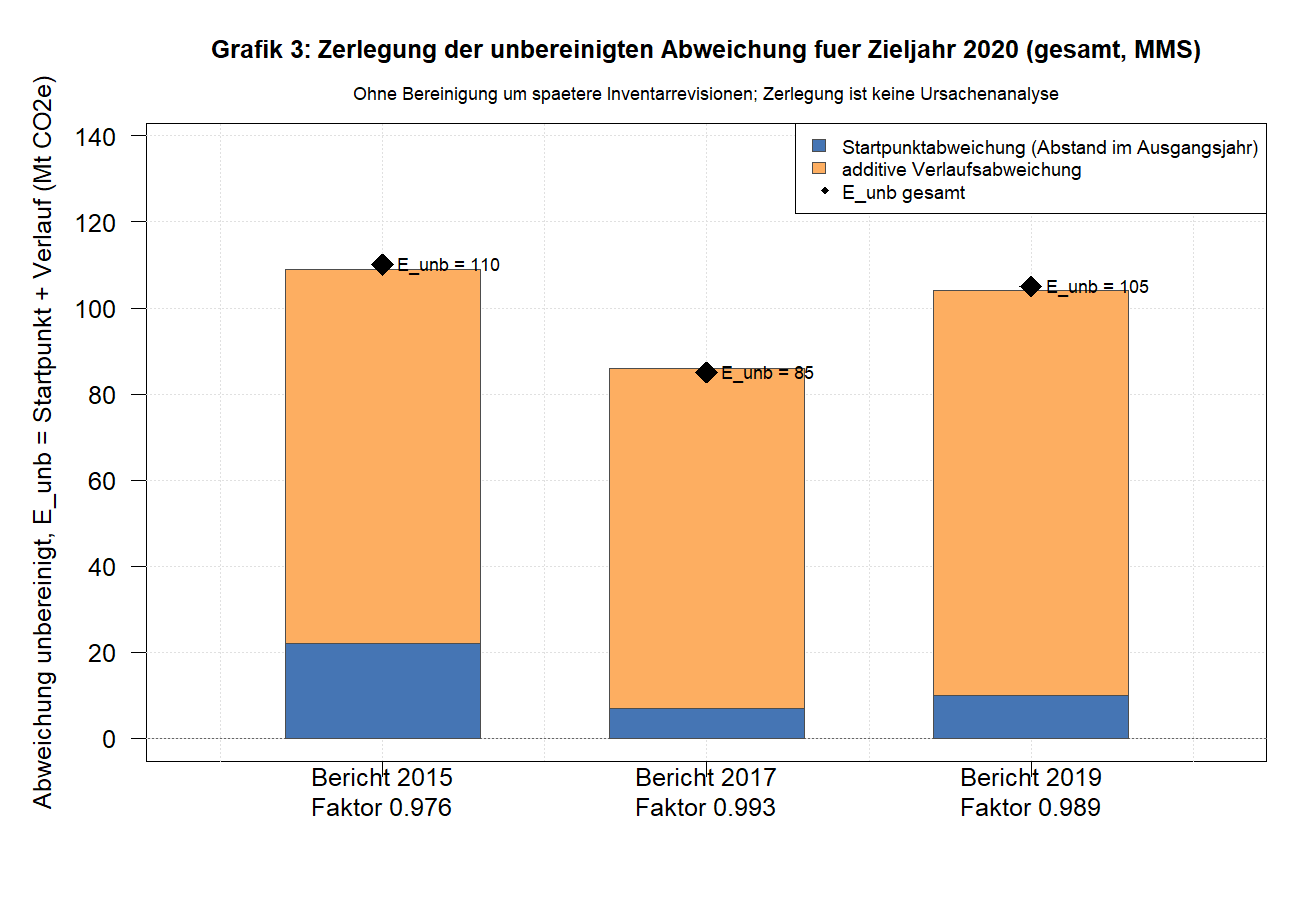
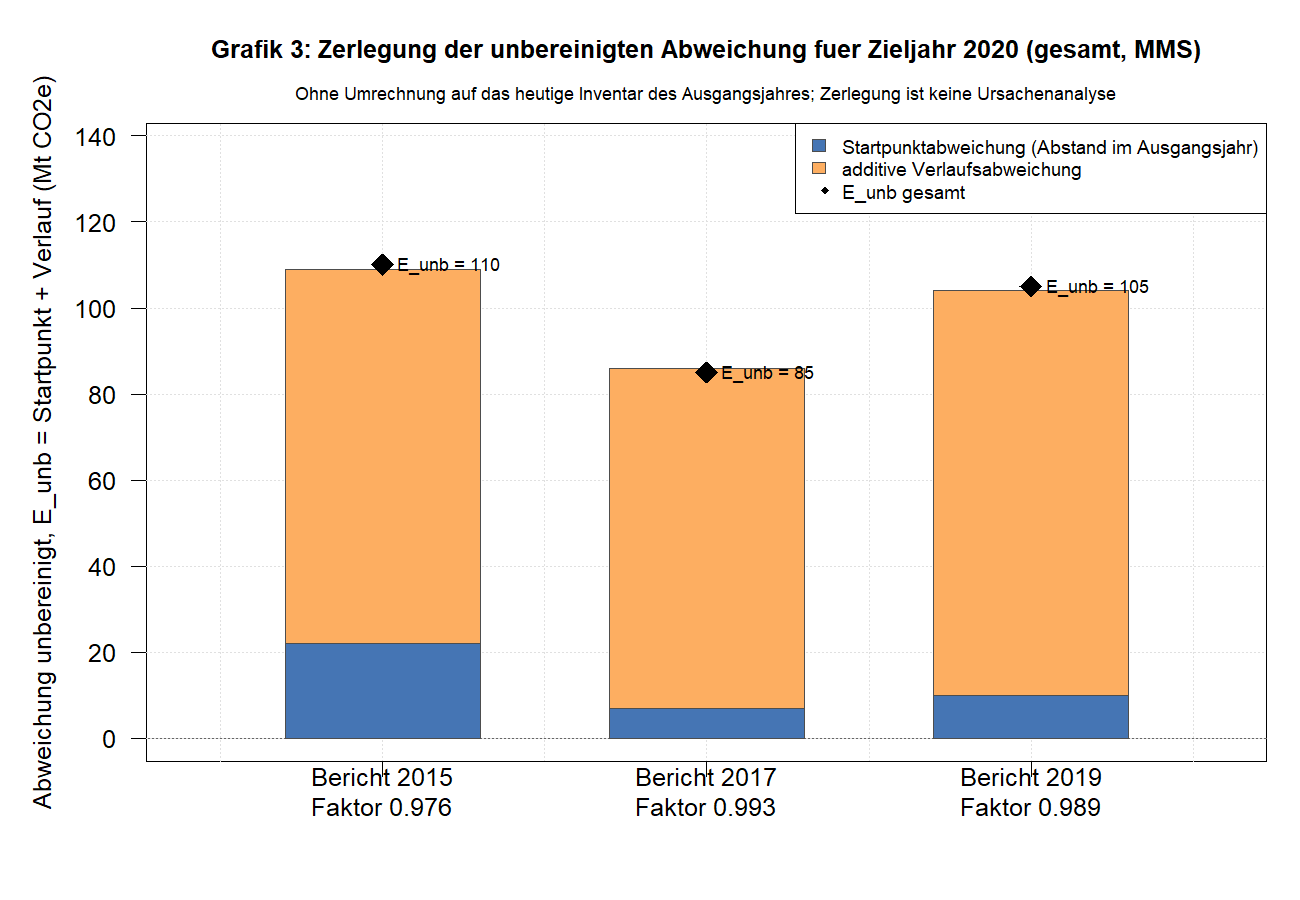
Prognose-Check: Faktencheck-Nachpruefung 2 (Datei, bestaetigt, 0 kritisch/hoch/mittel); Artikel v0.3 mit N7-N10, Grafik-3-Untertitel neutral

Changed region(s): [[0.2154, 0.0933, 0.8615, 0.1244]]

diff --git a/Reports/2026-11-12-prognose-check/faktencheck_nachpruefung2.md b/Reports/2026-11-12-prognose-check/faktencheck_nachpruefung2.md
@@ -1,0 +1,103 @@
+# Faktencheck Nachpruefung 2: Prognose-Check #1, Artikelentwurf v0.3 (Substack)
+
+Gepruefter Text: `Reports/2026-11-12-prognose-check/kanal-entwuerfe/substack.md` (v0.3, 12.11.2026). Der Artikel wurde nicht veraendert.
+Gegenstand: nur die seit `faktencheck_nachpruefung1.md` geaenderten Stellen (N1 bis N5), Quellenliste [1], Kopfvermerk, Grafik 3 (H27) und Analysebericht-E1-Tabelle (H26). Unveraenderte Stellen wurden nicht neu geprueft.
+Pruefer: faktenpruefer-Subagent (unabhaengig), Stand 12.11.2026.
+Geprueft gegen (unter `Analysen/2026-10-prognose-check-projektionsberichte/`): `output/e3_einzelwerte.csv`, `output/e3_kennzahlen.csv`, `output/e5_zerlegung.csv`, `output/grafik3_E5_zerlegung_2020.png` (angesehen), `04_grafik3_beschriftung.R`, `Analysebericht_...md` (Abschnitte 3, 4, 5, 7), `Abweichungsprotokoll_...md` (H19, H26, H27, H5, H20, H21), `SAP_...md` (8.1, 8.2), `run_log.txt` (Dateitabelle, Spalte url, Zugriff 22.10.2026), `Freigabe_Ergebnisse_Daniel_Saure_2026-11-11.md`, `Validierungsbericht_...md`, `faktencheck.md`. Zusaetzlich wurden fuenf der sechs URLs von [1] online abgerufen.
+
+## Gesamturteil
+
+**Bestaetigt mit Hinweisen: 0 kritisch, 0 hoch, 0 mittel, 4 gering (neu).** Alle in v0.3 geaenderten Saetze (N1 bis N5) sind jetzt von den Quellen gedeckt; die Ursachenzuschreibung beim Ausgangsjahrwert (frueher H2/N1) ist entfernt, D ist korrekt als Differenz absoluter Abweichungen definiert, "deshalb"/"denn" bei der Modellqualitaet sind durch die Begruendung des Analyseberichts ersetzt. Die sechs URLs in [1] stimmen buchstabengenau mit der Spalte url der Rohdatei-Liste in `run_log.txt` ueberein. Grafik 3 und die E1-Tabelle des Analyseberichts entsprechen dem Befund. Es verbleiben nur Kleinigkeiten (N7 bis N10, siehe unten). Bekannt offen und nicht als Fehler gewertet: GitHub-Link [3], G1/G2/G4/G5, H4. Dieser Faktencheck ist keine Freigabe; ein Freigabevermerk wurde nicht geschrieben.
+
+## Status der Befunde aus Nachpruefung 1
+
+| Befund | Status | Begruendung (Fundstelle v0.3 / Quelle) |
+|---|---|---|
+| N1 (Ursachenzuschreibung Ausgangsjahrwert) | behoben (Rest gering, siehe N8) | v0.3, "Was wir verglichen haben", Absatz 2: "weicht ... ab, beim Bericht von 2015 etwa fuer 2012. Das Umweltbundesamt rechnet die Reihe jedes Jahr neu. Ob das die Abweichung erklaert, haben wir nicht untersucht." "deshalb" ist weg, die Ursache wird ausdruecklich offen gelassen. Entspricht Analysebericht Abschnitt 3 ("Die Ursache ist nicht belegt"), Protokoll H19 und der Limitation (S2 nicht durchgefuehrt). Ausgangsjahr 2012 fuer PB2015 und Faktor 0,976 bis 0,995 gedeckt (Analysebericht Abschnitt 2/3). |
+| N2 (Definition D) | behoben | v0.3: "absolute Abweichung (ohne Vorzeichen) des MWMS minus absolute Abweichung des MMS ... Negativ heisst: Das MWMS lag naeher am tatsaechlichen Wert." `e3_einzelwerte.csv`: D = ARE_MWMS minus ARE_MMS; Zeile 2015/2015: ARE 1,4 (MMS), 1,5 (MWMS), D = +0,1 (dRE = -0,1, nicht massgeblich); alle anderen D negativ. Vorzeichenregel stimmt (kleinerer Betrag = naeher). Siehe Tabelle unten. |
+| N3 (deshalb/denn bei Modellqualitaet) | behoben | Bullet 4: "Eine Aussage ueber die Qualitaet der Modelle ist das nicht, denn diese Rechnungen variieren nur einzelne Annahmen." Absatz Sensitivitaetsband: "Eine Pandemie war in diesen Rechnungen nicht vorgesehen. Dass der tatsaechliche Wert unter dem Band liegt, ist keine Aussage ueber die Qualitaet der Modelle." Gedeckt durch Analysebericht Abschnitt 4 ("variieren nur Wachstum, Bevoelkerung, Preise und Stromexport und enthalten kein Pandemie- oder Krisenszenario; ... keine Aussage ueber die Modellierungsqualitaet (SAP 8.1)") und Freigabeauflage (letzter Punkt). "deshalb" ist gestrichen. |
+| N4 ("Wegen der ersten Rechnung ...") | behoben | v0.3, Absatz zu den nicht durchgefuehrten Rechnungen: "Wegen der ersten Rechnung wissen wir nicht, wie stark die spaeteren Korrekturen am Inventar die Ergebnisse verschieben." Bezug eindeutig auf S2. Analysebericht Abschnitt 5 (S2): "Folge: Die Wirkung der Revision der Ist-Werte auf E1/E2 ist unbekannt." Beschreibung S2 (nicht beschafft, "erste" nicht eindeutig) = Protokoll H5/H21; S6 (kein Ausgangswert in den Dateien fuer 2024; 2025 ohne Zieljahr im Fenster) = Analysebericht Abschnitt 5 / Protokoll H20. |
+| N5 (Entwurfskopf) | behoben (Rest gering, N9) | Kopf nennt jetzt "ENTWURF v0.3 (12.11.2026)", nennt Faktencheck, Nachpruefung 1 und v0.3-Aenderungen. Kopf nennt weiter Namen und Chat-Zitat (G6): bekannt, vor Veroeffentlichung zu entfernen. |
+| N6 (Analysebericht 811 vs. 810) | behoben | Analysebericht Abschnitt 4, E1-Tabelle: PB2017 P* = 810, A = 731, E* = 79, RE* = 10,9. Die uebrigen "811" im Bericht (Bandminimum 816,9 x 0,993 bereinigt) sind richtig (816,9 x 0,993 = 811,2). Protokoll H26 beschreibt das korrekt. |
+
+## Pruefung der geaenderten Saetze
+
+| Behauptung (Artikel v0.3) | Quelle | Ergebnis | Hinweis |
+|---|---|---|---|
+| Ausgangsjahrwert des Berichts weicht vom heutigen Inventarwert desselben Jahres ab, beim Bericht 2015 fuer 2012 | `umskalierungsfaktoren.csv` laut Analysebericht Abschnitt 3 (0,976); J_b 2015 = 2012 (Abschnitt 2, Amendment 1) | bestaetigt | Faktor 0,976 bedeutet, dass der Berichtswert um 2,4 % ueber dem heutigen Inventarwert liegt. |
+| "Das Umweltbundesamt rechnet die Reihe jedes Jahr neu" | keine Projektquelle (Analysebericht nennt "methodische Neuberechnung im Inventar" nur als ungeprueft Hypothese) | nicht pruefbar | Allgemeinwissen (jaehrliche Neuberechnung im Nationalen Inventarbericht ueblich), im Projekt nicht belegt; Beleg koennte im NIR 2026 (`uba_inventar/30_2026_CC.pdf`) gesucht werden. Gering, siehe N8. |
+| "Ob das die Abweichung erklaert, haben wir nicht untersucht" | Analysebericht Abschnitt 3/5, Protokoll H19/H21 | bestaetigt | Keine Kausalbehauptung mehr. |
+| Faktor zwischen 0,976 und 0,995 (Gesamtemissionen) | Analysebericht Abschnitt 3 | bestaetigt | Unveraendert. |
+| D = absolute Abweichung MWMS minus absolute Abweichung MMS; negativ = MWMS naeher | `e3_einzelwerte.csv` (Spalten ARE_star_MWMS, ARE_star_MMS, D), SAP 2.3 | bestaetigt | |
+| 5 Vergleiche, 4 mit MWMS naeher | `e3_kennzahlen.csv` (n = 5, n_D_neg = 4) | bestaetigt | |
+| Median minus 1,5 Prozentpunkte | `e3_kennzahlen.csv` (-1,4667) | bestaetigt | |
+| Einziges Gegenbeispiel: Bericht 2015 fuer 2015, plus 0,1 Prozentpunkte | `e3_einzelwerte.csv` (D = 0,1) | bestaetigt | |
+| Ohne Bericht 2015: 3 von 3, Median minus 1,5 | Werte -1,5 / -1,4 / -1,7 aus `e3_einzelwerte.csv`: Median -1,5 (ungerundet -1,4667); Analysebericht Abschnitt 4 | bestaetigt | Nachrechnung der Rundung nur aus den CSV-Werten, keine neue Aussage im Artikel. |
+| Ohne 2017: Median minus 1,6; ohne 2023: minus 1,5 | Analysebericht Abschnitt 4 (-1,57 / -1,47) | bestaetigt | Zuordnung in der Reihenfolge korrekt. |
+| MWMS 2015 stammt aus einer Fassung von 2016, "also aus der Zeit nach dem Berichtsjahr" | Protokoll H1, Analysebericht Abschnitt 4 | bestaetigt | |
+| Bullet 4: Ist-Wert 2020 unter der gesamten Spannweite der berichtseigenen Sensitivitaeten; "variieren nur einzelne Annahmen" | Analysebericht Abschnitt 4 (Band-Pruefung), Freigabe Auflage 4 | bestaetigt | Begruendung "denn ..." entspricht dem Analysebericht, nicht wortgleich SAP 8.1 (dort: bedingte Szenarien); beides vereinbar. |
+| "Eine Pandemie war in diesen Rechnungen nicht vorgesehen" | Analysebericht Abschnitt 4 ("kein Pandemie- oder Krisenszenario") | bestaetigt | |
+| Nicht durchgefuehrt: erste Rechnung (erste Inventarversion mit dem Jahr), nicht beschafft, "erste" im Plan nicht eindeutig | Protokoll H5/H21, Analysebericht Abschnitt 5 (S2) | bestaetigt | |
+| Zweite nicht durchgefuehrte Rechnung: UBA-Projektionsdaten 2024 und 2025, fehlender Ausgangswert, Bericht 2025 ohne Zieljahr im untersuchten Zeitraum | Protokoll H20, Analysebericht Abschnitt 5 (S6), `s6_pruefung.csv` laut Bericht | bestaetigt | "Ausgangswert fehlt" gilt fuer 2024; fuer 2025 liegt der Grund beim fehlenden Zieljahr. Der Satz fasst beides zusammen, vertretbar. |
+| "Wegen der ersten Rechnung wissen wir nicht, wie stark die spaeteren Korrekturen ... verschieben" | Analysebericht Abschnitt 5 (S2, "Folge") | bestaetigt | |
+| Kopf: Gate-Dateien (Validierungsbericht inkl. Nachpruefung 1 und 2, 0 kritisch; Freigabe der Ergebnisse 11.11.2026) liegen vor | `Validierungsbericht_...md`; `Freigabe_Ergebnisse_Daniel_Saure_2026-11-11.md` (nennt "inklusive Nachpruefung 1 und 2 (0 kritisch)") | bestaetigt | Beide Dateien gelesen (Kopfzeilen); Gesamturteil des Validators: "Keine kritischen Befunde". |
+| Kopf: Faktencheck bedingt, 0 kritisch, 4 hoch, 8 mittel, 6 gering | `faktencheck.md` (Gesamturteil) | bestaetigt | |
+| Kopf: Nachpruefung 1 bedingt, 0 kritisch; Rest N1 und N2 | `faktencheck_nachpruefung1.md` | bestaetigt | N1 war "hoch", N2 "mittel"; N3 bis N6 gering. Formulierung "als Rest" ist zutreffend. |
+| Kopf: N1 bis N5 in v0.3 geaendert, Pruefung dieser Aenderungen steht aus | dieser Faktencheck | bestaetigt (wahrheitsgemaess) | Zum Zeitpunkt der Pruefung stimmt der Satz. Nach Vorliegen dieser Datei muss er vom Autor aktualisiert werden (siehe N9). |
+| Kopf: GitHub-Link [3], G1/G2/G4/G5, H4 offen | Nachpruefung 1; Auftrag | bestaetigt | Als bekannt offen gefuehrt. |
+| Kopf: Quellenlinks [1] eingetragen und geprueft (200); Links am 12.11.2026 geprueft | eigener Abruf von 5 von 6 URLs (PDF-Inhalt erhalten); 6. URL (PB2023, ca. 11 MB) ueberschritt das Abruflimit des Werkzeugs, was zur Dateigroesse in `run_log.txt` passt (11.167.873 Bytes) | bestaetigt (erreichbar) | HTTP-Statuscode "200" selbst nicht beobachtet (Werkzeug zeigt ihn nicht), ein Linkpruefprotokoll liegt nicht als Datei vor. Siehe N9. |
+| Kopf: H26 (Analysebericht auf 810) und H27 (Grafik 3 neu) | Analysebericht Abschnitt 4; Protokoll G (H26, H27); Skript `04_grafik3_beschriftung.R`; PNG | bestaetigt | Siehe Abschnitt Grafik 3. |
+
+## Quellenliste [1]: URL-Abgleich mit `run_log.txt`
+
+Abgleich gegen die Dateitabelle (Spalte url, Zugriff jeweils 2026-10-22, 16:37 bis 16:47 UTC).
+
+| Eintrag in [1] | URL im Artikel = URL in run_log? | Name/Jahr/Fassung | Ergebnis |
+|---|---|---|---|
+| 2015, Fassung April 2015 (MMS), Eionet CDR | identisch (Zeile "eea_reportnet_cdr/2015_envvqlq8w_projektionsbericht/150422_Projektionsbericht_2015_final.pdf", envvqlq8w) | run_log Abschnitt 3.1: "Fassung April 2015 (nur MMS)", Umschlag envvqlq8w | bestaetigt; online erreichbar (PDF) |
+| 2015, Fassung September 2016 (MWMS), Eionet CDR | identisch (projections/envv_vp1a/160928_PB2015_MWMS.final.pdf) | run_log: "Fassung 'ergaenzt durch MWMS'", hochgeladen 28.09.2016 | bestaetigt; online erreichbar (PDF) |
+| 2017 (UBA) | identisch (`.../372/dokumente/projektionsbericht_2017_uba_website.pdf`) | run_log 3.1 PB2017 | bestaetigt; online erreichbar (PDF) |
+| 2019 (UBA) | identisch (`.../projektionsbericht-2019_uba_website.pdf`) | run_log 3.1 PB2019 | bestaetigt; online erreichbar (PDF) |
+| 2021 (UBA) | identisch (`.../projektionsbericht_2021_uba_website.pdf`) | run_log 3.1 PB2021 | bestaetigt; online erreichbar (PDF) |
+| 2023 (Climate Change 39/2023) | identisch (`.../11850/publikationen/39_2023_cc_projektionsbericht_12_23.pdf`) | run_log 3.1: "UBA Climate Change 39/2023" | bestaetigt (URL); Online-Abruf wegen Dateigroesse nicht durchgefuehrt |
+
+Weitere Angaben in [1]: "abgerufen 22.10.2026" stimmt mit dem Zugriffsdatum aller Dateien ueberein. "Datenablage der Europaeischen Umweltagentur (Eionet CDR)" entspricht dem Host cdr.eionet.europa.eu (run_log: "EEA Reportnet CDR"). Quelle [2] (Trendtabelle, 15.01.2026, Dateiname und URL; KSG-Uebersicht 15.03.2026) ebenfalls mit run_log Abschnitt 3 und Dateitabelle identisch (nicht Gegenstand der Aenderung, nebenbei bestaetigt).
+
+## Grafik 3 und Analysebericht E1 (H27, H26)
+
+| Pruefpunkt | Ergebnis | Hinweis |
+|---|---|---|
+| PNG `output/grafik3_E5_zerlegung_2020.png` angesehen. Legende: "Startpunktabweichung (Abstand im Ausgangsjahr)", "additive Verlaufsabweichung", "E_unb gesamt"; keine Nennung "Inventarrevision/GWP" in der Legende | bestaetigt | Die frueher beanstandete Ursachenzuschreibung in der Legende ist weg. |
+| Balken und Beschriftung gegen `e5_zerlegung.csv` (MMS, 2020): 2015: 22 + 87 (E_unb 110); 2017: 7 + 79 (85); 2019: 10 + 94 (105); Faktoren 0,976 / 0,993 / 0,989 | bestaetigt | Im Bild: Startpunktbalken ca. 22, 7, 10; Raute 110, 85, 105; Faktoren korrekt. Die Artikelzahlen (22 von 110, 7 von 85, 10 von 105; 20 / 8 / 10 %) stimmen mit CSV und Grafik. |
+| Skript `04_grafik3_beschriftung.R` zeichnet aus `e5_zerlegung.csv`, keine Rechnung | bestaetigt | Gerundete Mt-Werte als Eingabe, daher Stapelhoehen 109 / 86 / 104 statt 110 / 85 / 105 (im Skriptkopf und Protokoll H27 offen genannt); in der Grafik sichtbar als Abstand von bis zu 1 Mt zwischen Balkenoberkante und Raute. Siehe N10. |
+| Untertitel der Grafik: "Ohne Bereinigung um spaetere Inventarrevisionen; Zerlegung ist keine Ursachenanalyse" | Hinweis (gering) | Siehe N7. |
+| Analysebericht Abschnitt 4, E1-Tabelle PB2017 = 810 (H26) | bestaetigt | 810 - 731 = 79; `e1_ergebnisse.csv` laut Nachpruefung 1: 810. Die restlichen 811 im Bericht (Band bereinigt) sind richtig. |
+| Protokoll H26/H27 beschreiben die Aenderung wahrheitsgemaess (nur Beschriftung/Rundung, keine Methode, keine Kennzahl) | bestaetigt | Eintraege in Abschnitt G des Abweichungsprotokolls, Entscheidungsspalte "offen". |
+
+## Einordnungs-Check (keine neue Berechnung/Inferenz)
+
+Die geaenderten Saetze enthalten keine neue Berechnung. Alle Zahlen (0,976 bis 0,995, 0,1, minus 1,5 / minus 1,6 / minus 1,5, 4 von 5, 3 von 3, 22/110, 7/85, 10/105) stehen in den CSV-Dateien oder im Analysebericht. Die Rundungen (-1,4667 zu -1,5; -1,5657 zu -1,6) sind korrekt und im Analysebericht gedeckt. Die im Artikel neu gesetzte Begruendung bei Bullet 4 ("variieren nur einzelne Annahmen") ist eine Paraphrase des Analyseberichts, keine eigene Inferenz. Verbleibende Aussage ohne Projektquelle: "Das Umweltbundesamt rechnet die Reihe jedes Jahr neu" (Allgemeinwissen, N8).
+
+## Neue Befunde mit Schweregrad
+
+| Nr. | Fundstelle | Befund | Schweregrad | Vorschlag |
+|---|---|---|---|---|
+| N7 | Grafik 3, Untertitel (`04_grafik3_beschriftung.R`, Zeile mtext): "Ohne Bereinigung um spaetere Inventarrevisionen" | Beschreibt die unbereinigte Skala, legt aber nahe, dass der Startpunktabstand eine Inventarrevision ist. Das ist im Projekt ausdruecklich nicht belegt (Analysebericht Abschnitt 3 und 5, H19; S2 nicht gerechnet) und steht im Gegensatz zum Artikeltext ("Ob das die Abweichung erklaert, haben wir nicht untersucht"). Dieselbe Formulierung steht in der S1-Zeile des Analyseberichts und im SAP (dort als Definition der Skala). | gering | Untertitel neutral: "Ohne Umrechnung auf das heutige Inventar des Ausgangsjahres; Zerlegung ist keine Ursachenanalyse". Wenn Grafik 3 ohnehin neu erzeugt wird, zugleich Achsen- und Legendenkuerzel ("E_unb", ASCII-Umlaute wie "fuer") lesbar machen. |
+| N8 | Artikel, "Was wir verglichen haben", Absatz 2: "Das Umweltbundesamt rechnet die Reihe jedes Jahr neu." | Allgemeinwissen, in den Projektdateien nicht belegt (Analysebericht fuehrt methodische Neuberechnung als ungeprueft Hypothese). Neben dem Folgesatz ("Ob das die Abweichung erklaert ...") bleibt eine leichte Suggestion, die Neuberechnung sei der Grund. | gering | Entweder mit Fundstelle belegen (NIR 2026, Kapitel Neuberechnungen, oder UBA-Seite) oder streichen / relativieren ("Das Umweltbundesamt aktualisiert die Reihe regelmaessig"). |
+| N9 | Kopf (Entwurfsbanner) | (a) Kopf sagt, die Pruefung der v0.3-Aenderungen "steht aus"; das ist jetzt zu aktualisieren (Verweis auf `../faktencheck_nachpruefung2.md`). (b) "geprueft (200)": ein Linkpruefprotokoll liegt nicht als Datei vor; HTTP-Code von mir nicht beobachtet, Erreichbarkeit fuer 5 von 6 URLs bestaetigt. (c) Name und Chat-Zitat im Banner (G6) weiter vorhanden. | gering | Kopf nach Vorliegen dieser Datei anpassen; Linkpruefung kurz als Datei festhalten oder Formulierung "erreichbar (am 12.11.2026 geprueft)" waehlen; Banner vor Veroeffentlichung entfernen. |
+| N10 | Grafik 3, Stapelhoehen | Balken addieren gerundete Teilwerte (109 / 86 / 104), die Raute zeigt 110 / 85 / 105; Differenz bis 1 Mt sichtbar. Offengelegt im Skript und Protokoll, nicht im Artikel. | gering | Fussnote oder Beschriftung "Teilwerte gerundet, Summen koennen um 1 Mt abweichen"; oder Skript mit ungerundeten Werten aus `e5_zerlegung`-Quelle (paare_alle_voll.csv) laufen lassen. |
+
+## Weiterhin offen, nicht als Fehler gewertet
+
+- GitHub-Link [3] (erst nach Push und Pruefung auf 200).
+- G1, G2, G4, G5 (bewusst nicht eingearbeitet); G3 teilweise.
+- H4: Der Satz "Die Redaktion hat ... diesen Text ... gelesen und freigegeben" gilt erst nach Daniel Saures Textfreigabe als Datei.
+- G6 (Name und Chat-Zitat im Kopf), Legende-Hinweis siehe oben erledigt.
+
+## Nicht geprueft
+
+- Inhalt der Quell-PDFs, UBA-xlsx; fuer die PB2023-URL kein Online-Abruf (Dateigroesse).
+- Chat-Zitat zur Titelentscheidung im Kopf (nicht pruefbar).
+- Unveraenderte Artikelstellen (siehe Nachpruefung 1 und Erstcheck).
+- Grafik 1 und 2.
+- Keine Freigabevermerke geschrieben, der Artikel wurde nicht veraendert.

diff --git a/Reports/2026-11-12-prognose-check/kanal-entwuerfe/substack.md b/Reports/2026-11-12-prognose-check/kanal-entwuerfe/substack.md
@@ -1,4 +1,4 @@
-**ENTWURF v0.3 (12.11.2026) – nicht veröffentlicht. Freigabe durch Daniel Saure erforderlich vor Publikation.** Gate: Validierungsbericht inklusive Nachprüfung 1 und 2 (0 kritisch) und Freigabe der Ergebnisse (11.11.2026) liegen als Dateien vor (`Analysen/2026-10-prognose-check-projektionsberichte/`). Faktencheck des Artikeltexts durch `faktenpruefer` liegt vor (`../faktencheck.md`, bedingt, 0 kritisch, 4 hoch, 8 mittel, 6 gering); die Befunde sind in v0.2 und v0.3 eingearbeitet. Die Nachprüfung 1 (`../faktencheck_nachpruefung1.md`, bedingt, 0 kritisch) fand als Rest N1 (Ursachenzuschreibung beim Ausgangsjahrwert) und N2 (Definition von D); beide sowie N3 bis N5 sind in v0.3 geändert, eine Prüfung dieser Änderungen steht aus. Quellenlinks [1] eingetragen und geprüft (200); Grafik 3 neu beschriftet (Post-hoc H27) und 811 im Analysebericht angeglichen (H26, N6). Offen: GitHub-Link [3] (erst nach Push), geringe Befunde G1, G2, G4, G5, Prüfung der v0.3-Änderungen. Die KI-Offenlegung sagt, die Redaktion habe den Text „gelesen und freigegeben“: Das stimmt erst nach Daniel Saures Freigabe des Volltexts (H4). Titelform, Reihe „Prognose-Check #1“ und Verzicht auf den Sektoranhang nach Entscheidung Daniel Saure vom 12.11.2026 (Chat: „1. ok, w. nur letzteres, 3. eigene reihe“; Auslegung: Titel als Frage, Sektoren nur im Analysebericht). Grafiken: Platzhalter, Dateien liegen unter `Analysen/2026-10-prognose-check-projektionsberichte/output/`.
+**ENTWURF v0.3 (12.11.2026) – nicht veröffentlicht. Freigabe durch Daniel Saure erforderlich vor Publikation.** Gate: Validierungsbericht inklusive Nachprüfung 1 und 2 (0 kritisch) und Freigabe der Ergebnisse (11.11.2026) liegen als Dateien vor (`Analysen/2026-10-prognose-check-projektionsberichte/`). Faktencheck des Artikeltexts durch `faktenpruefer` liegt vor (`../faktencheck.md`, bedingt, 0 kritisch, 4 hoch, 8 mittel, 6 gering); die Befunde sind in v0.2 und v0.3 eingearbeitet. Die Nachprüfung 1 (`../faktencheck_nachpruefung1.md`, bedingt, 0 kritisch) fand als Rest N1 (Ursachenzuschreibung beim Ausgangsjahrwert) und N2 (Definition von D); beide sowie N3 bis N5 sind in v0.3 geändert. Die Nachprüfung 2 (`../faktencheck_nachpruefung2.md`, bestätigt mit Hinweisen, 0 kritisch, 0 hoch, 0 mittel, 4 gering) hat das bestätigt; deren N7 bis N10 sind eingearbeitet (Grafikuntertitel, Satz zur Neuberechnung ohne unbelegte Behauptung, Grafikunterschrift mit Rundungshinweis), die Prüfung dieser letzten Änderungen ist nicht gesondert erfolgt. Quellenlinks [1] eingetragen und geprüft (200); Grafik 3 neu beschriftet (Post-hoc H27) und 811 im Analysebericht angeglichen (H26, N6). Offen: GitHub-Link [3] (erst nach Push), geringe Befunde G1, G2, G4, G5, Prüfung der v0.3-Änderungen. Die KI-Offenlegung sagt, die Redaktion habe den Text „gelesen und freigegeben“: Das stimmt erst nach Daniel Saures Freigabe des Volltexts (H4). Titelform, Reihe „Prognose-Check #1“ und Verzicht auf den Sektoranhang nach Entscheidung Daniel Saure vom 12.11.2026 (Chat: „1. ok, w. nur letzteres, 3. eigene reihe“; Auslegung: Titel als Frage, Sektoren nur im Analysebericht). Grafiken: Platzhalter, Dateien liegen unter `Analysen/2026-10-prognose-check-projektionsberichte/output/`.
 
 Klima Kompass · Prognose-Check #1
 
@@ -20,7 +20,7 @@ Vorweg: Eine Projektion ist eine bedingte Rechnung und keine Vorhersage. Der Abs
 
 Wir haben die Gesamtemissionen ohne Landnutzung betrachtet. Als Projektion zählt der Wert, den der Bericht für ein bestimmtes Zieljahr ausweist. Als tatsächlicher Wert gilt das Inventar des Umweltbundesamts mit Stand 2026 [2].
 
-Dabei gibt es ein Problem. Der Wert, den ein Bericht für sein Ausgangsjahr ausweist, weicht vom heutigen Inventarwert desselben Jahres ab, beim Bericht von 2015 etwa für 2012. Das Umweltbundesamt rechnet die Reihe jedes Jahr neu. Ob das die Abweichung erklärt, haben wir nicht untersucht. Wir haben die Projektionen darum auf den heutigen Wert des Ausgangsjahres umgerechnet, mit einem Faktor, der für die Gesamtemissionen zwischen 0,976 und 0,995 liegt. Die bereinigte Projektion zeigt damit, wie gut der Verlauf vom Ausgangsjahr an getroffen wurde, nicht das absolute Niveau. In der Zusatzrechnung ohne Bereinigung fällt die Überschätzung etwas höher aus (im Mittel 12,1 Prozent).
+Dabei gibt es ein Problem. Der Wert, den ein Bericht für sein Ausgangsjahr ausweist, weicht vom heutigen Inventarwert desselben Jahres ab, beim Bericht von 2015 etwa für 2012. Ob spätere Überarbeitungen der Inventarreihe die Abweichung erklären, haben wir nicht untersucht. Wir haben die Projektionen darum auf den heutigen Wert des Ausgangsjahres umgerechnet, mit einem Faktor, der für die Gesamtemissionen zwischen 0,976 und 0,995 liegt. Die bereinigte Projektion zeigt damit, wie gut der Verlauf vom Ausgangsjahr an getroffen wurde, nicht das absolute Niveau. In der Zusatzrechnung ohne Bereinigung fällt die Überschätzung etwas höher aus (im Mittel 12,1 Prozent).
 
 | Bericht | Ausgangsjahr | Zieljahre im Vergleich |
 |---|---|---|
@@ -78,6 +78,8 @@ Drei Berichte weisen neben dem MMS auch ein Szenario mit weiteren Maßnahmen aus
 Wir haben den Abstand für 2020 in zwei Teile zerlegt: der Teil, der schon im Ausgangsjahr entsteht, und der Teil, der sich im Verlauf aufbaut. Beim Bericht 2015 sind es 22 von 110 Mt (20 Prozent) im Startpunkt, beim Bericht 2017 sieben von 85 Mt (8 Prozent), beim Bericht 2019 zehn von 105 Mt (10 Prozent). Der größere Teil entsteht also im Verlauf. Diese Zerlegung ist eine Buchhaltung, keine Ursachenanalyse. Die Werte beziehen sich auf die Abweichung ohne die Umrechnung auf das heutige Inventar.
 
 [GRAFIK 3 – grafik3_E5_zerlegung_2020.png]
+
+*Grafik 3: Zerlegung der unbereinigten Abweichung für 2020 in Startpunkt und Verlauf. Die Balken addieren auf ganze Millionen Tonnen gerundete Teilwerte und können deshalb um bis zu 1 Mt von den Rauten (Gesamtabweichung) abweichen. Quelle: Projektionsberichte [1], Umweltbundesamt [2], Auswertung Klima Kompass.*
 
 ## Was diese Analyse nicht sagt
 
